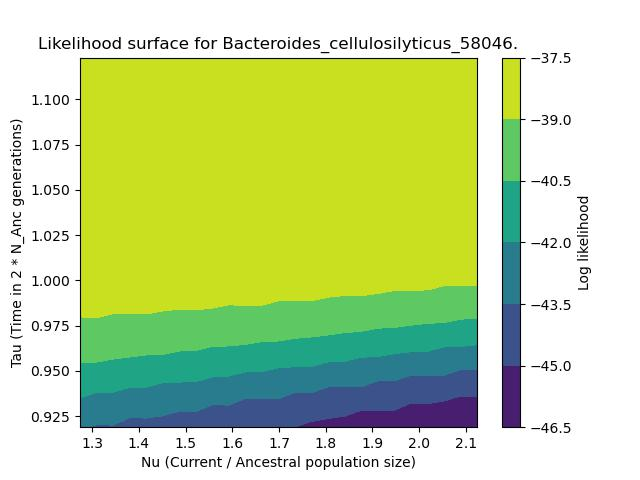
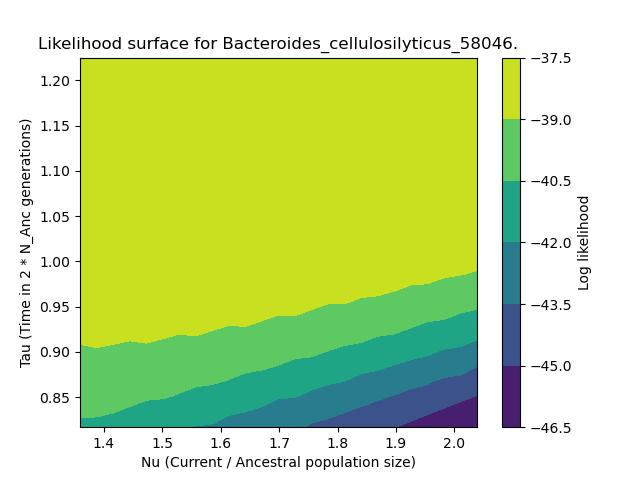
B. cellulosilyticus likeliehood

Changed region(s): [[0.0, 0.5312, 0.75, 0.9375], [0.0, 0.25, 0.125, 0.5312], [0.0312, 0.1562, 0.125, 0.2188]]

diff --git a/Scripts/plot_likelihood.py b/Scripts/plot_likelihood.py
@@ -466,8 +466,8 @@ class PlotLikelihood():
 
                 npts = 25
 
-                x_range = numpy.linspace(x * 0.75, x * 1.25, npts)
-                y_range = numpy.linspace(y * 0.9, y * 1.1, npts)
+                x_range = numpy.linspace(x * 0.8, x * 1.2, npts)
+                y_range = numpy.linspace(y * 0.8, y * 1.2, npts)
 
                 X, Y = numpy.meshgrid(x_range, y_range)
 
